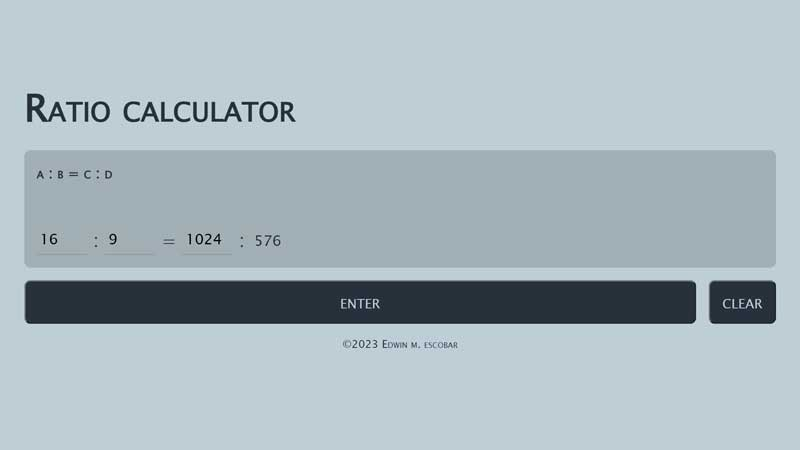
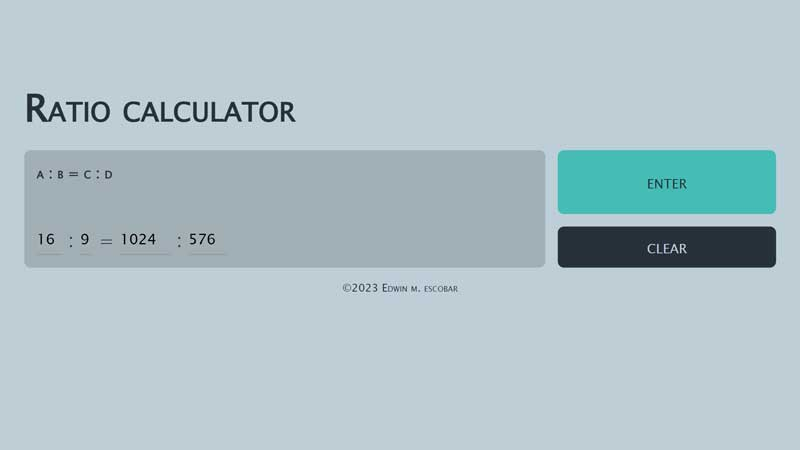
generated new report & screenshot to reflect build

Changed region(s): [[0.0312, 0.3111, 0.9688, 0.7778], [0.0312, 0.4978, 0.2812, 0.56], [0.3125, 0.5289, 0.3438, 0.56]]

diff --git a/dist/report.html b/dist/report.html
@@ -3,7 +3,7 @@
   <head>
     <meta charset="UTF-8"/>
     <meta name="viewport" content="width=device-width, initial-scale=1"/>
-    <title>ratio-calculator [19 Aug 2023 at 13:41]</title>
+    <title>ratio-calculator [19 Aug 2023 at 15:11]</title>
[1 lines of base64/hex data omitted]
 
     <script>
@@ -31,7 +31,7 @@
   <body>
     <div id="app"></div>
     <script>
-      window.chartData = [{"label":"app.bundle.js","isAsset":true,"statSize":13620,"parsedSize":28177,"gzipSize":5913,"groups":[{"label":"src","path":"./src","statSize":5273,"groups":[{"label":"css","path":"./src/css","statSize":3303,"groups":[{"id":"./node_modules/css-loader/dist/cjs.js!./src/css/style.css","label":"style.css","path":"./src/css/style.css","statSize":3303,"parsedSize":8851,"gzipSize":1594}],"parsedSize":8851,"gzipSize":1594},{"label":"js","path":"./src/js","statSize":1970,"groups":[{"label":"lib","path":"./src/js/lib","statSize":636,"groups":[{"id":"./src/js/lib/Calculator.js","label":"Calculator.js","path":"./src/js/lib/Calculator.js","statSize":636,"parsedSize":777,"gzipSize":336}],"parsedSize":777,"gzipSize":336},{"id":"./src/js/script.js","label":"script.js","path":"./src/js/script.js","statSize":1334,"parsedSize":1775,"gzipSize":845}],"parsedSize":2552,"gzipSize":1037}],"parsedSize":11403,"gzipSize":2393},{"label":"node_modules","path":"./node_modules","statSize":8347,"groups":[{"label":"css-loader/dist/runtime","path":"./node_modules/css-loader/dist/runtime","statSize":2367,"groups":[{"id":"./node_modules/css-loader/dist/runtime/api.js","label":"api.js","path":"./node_modules/css-loader/dist/runtime/api.js","statSize":2303,"parsedSize":2570,"gzipSize":827},{"id":"./node_modules/css-loader/dist/runtime/noSourceMaps.js","label":"noSourceMaps.js","path":"./node_modules/css-loader/dist/runtime/noSourceMaps.js","statSize":64,"parsedSize":202,"gzipSize":186}],"parsedSize":2772,"gzipSize":855},{"label":"style-loader/dist/runtime","path":"./node_modules/style-loader/dist/runtime","statSize":5980,"groups":[{"id":"./node_modules/style-loader/dist/runtime/injectStylesIntoStyleTag.js","label":"injectStylesIntoStyleTag.js","path":"./node_modules/style-loader/dist/runtime/injectStylesIntoStyleTag.js","statSize":2480,"parsedSize":2715,"gzipSize":888},{"id":"./node_modules/style-loader/dist/runtime/insertBySelector.js","label":"insertBySelector.js","path":"./node_modules/style-loader/dist/runtime/insertBySelector.js","statSize":1003,"parsedSize":1180,"gzipSize":586},{"id":"./node_modules/style-loader/dist/runtime/insertStyleElement.js","label":"insertStyleElement.js","path":"./node_modules/style-loader/dist/runtime/insertStyleElement.js","statSize":285,"parsedSize":438,"gzipSize":274},{"id":"./node_modules/style-loader/dist/runtime/setAttributesWithoutAttributes.js","label":"setAttributesWithoutAttributes.js","path":"./node_modules/style-loader/dist/runtime/setAttributesWithoutAttributes.js","statSize":298,"parsedSize":477,"gzipSize":292},{"id":"./node_modules/style-loader/dist/runtime/styleDomAPI.js","label":"styleDomAPI.js","path":"./node_modules/style-loader/dist/runtime/styleDomAPI.js","statSize":1534,"parsedSize":1764,"gzipSize":689},{"id":"./node_modules/style-loader/dist/runtime/styleTagTransform.js","label":"styleTagTransform.js","path":"./node_modules/style-loader/dist/runtime/styleTagTransform.js","statSize":380,"parsedSize":534,"gzipSize":309}],"parsedSize":7108,"gzipSize":1959}],"parsedSize":9880,"gzipSize":2534}],"isInitialByEntrypoint":{"app":true}}];
+      window.chartData = [{"label":"app.bundle.js","isAsset":true,"statSize":197150,"parsedSize":28702,"gzipSize":6072,"groups":[{"label":"entry modules (concatenated)","path":"./entry modules (concatenated)","statSize":13073,"parsedSize":6894,"gzipSize":1454,"concatenated":true,"groups":[{"label":"node_modules","path":"./entry modules (concatenated)/node_modules","statSize":13073,"groups":[{"label":"webpack-dev-server/client","path":"./entry modules (concatenated)/node_modules/webpack-dev-server/client","statSize":11088,"groups":[{"id":"./node_modules/webpack-dev-server/client/index.js?protocol=ws%3A&hostname=0.0.0.0&port=8080&pathname=%2Fws&logging=info&overlay=true&reconnect=10&hot=true&live-reload=true","label":"index.js?protocol=ws%3A&hostname=0.0.0.0&port=8080&pathname=%2Fws&logging=info&overlay=true&reconnect=10&hot=true&live-reload=true","path":"./entry modules (concatenated)/node_modules/webpack-dev-server/client/index.js?protocol=ws%3A&hostname=0.0.0.0&port=8080&pathname=%2Fws&logging=info&overlay=true&reconnect=10&hot=true&live-reload=true","statSize":11088,"parsedSize":5847,"gzipSize":1233,"inaccurateSizes":true}],"parsedSize":5847,"gzipSize":1233,"inaccurateSizes":true},{"label":"webpack/hot","path":"./entry modules (concatenated)/node_modules/webpack/hot","statSize":1985,"groups":[{"id":"./node_modules/webpack/hot/dev-server.js","label":"dev-server.js","path":"./entry modules (concatenated)/node_modules/webpack/hot/dev-server.js","statSize":1985,"parsedSize":1046,"gzipSize":220,"inaccurateSizes":true}],"parsedSize":1046,"gzipSize":220,"inaccurateSizes":true}],"parsedSize":6894,"gzipSize":1454,"inaccurateSizes":true}]},{"label":"node_modules","path":"./node_modules","statSize":177150,"groups":[{"label":"ansi-html-community","path":"./node_modules/ansi-html-community","statSize":4262,"groups":[{"id":"./node_modules/ansi-html-community/index.js","label":"index.js","path":"./node_modules/ansi-html-community/index.js","statSize":4262}],"parsedSize":0,"gzipSize":0},{"label":"css-loader/dist/runtime","path":"./node_modules/css-loader/dist/runtime","statSize":2367,"groups":[{"id":"./node_modules/css-loader/dist/runtime/api.js","label":"api.js","path":"./node_modules/css-loader/dist/runtime/api.js","statSize":2303,"parsedSize":2570,"gzipSize":827},{"id":"./node_modules/css-loader/dist/runtime/noSourceMaps.js","label":"noSourceMaps.js","path":"./node_modules/css-loader/dist/runtime/noSourceMaps.js","statSize":64,"parsedSize":202,"gzipSize":186}],"parsedSize":2772,"gzipSize":855},{"label":"events","path":"./node_modules/events","statSize":14890,"groups":[{"id":"./node_modules/events/events.js","label":"events.js","path":"./node_modules/events/events.js","statSize":14890}],"parsedSize":0,"gzipSize":0},{"label":"html-entities/lib","path":"./node_modules/html-entities/lib","statSize":83777,"groups":[{"id":"./node_modules/html-entities/lib/index.js","label":"index.js","path":"./node_modules/html-entities/lib/index.js","statSize":8100},{"id":"./node_modules/html-entities/lib/named-references.js","label":"named-references.js","path":"./node_modules/html-entities/lib/named-references.js","statSize":74801},{"id":"./node_modules/html-entities/lib/numeric-unicode-map.js","label":"numeric-unicode-map.js","path":"./node_modules/html-entities/lib/numeric-unicode-map.js","statSize":339},{"id":"./node_modules/html-entities/lib/surrogate-pairs.js","label":"surrogate-pairs.js","path":"./node_modules/html-entities/lib/surrogate-pairs.js","statSize":537}],"parsedSize":0,"gzipSize":0},{"label":"style-loader/dist/runtime","path":"./node_modules/style-loader/dist/runtime","statSize":5980,"groups":[{"id":"./node_modules/style-loader/dist/runtime/injectStylesIntoStyleTag.js","label":"injectStylesIntoStyleTag.js","path":"./node_modules/style-loader/dist/runtime/injectStylesIntoStyleTag.js","statSize":2480,"parsedSize":2715,"gzipSize":888},{"id":"./node_modules/style-loader/dist/runtime/insertBySelector.js","label":"insertBySelector.js","path":"./node_modules/style-loader/dist/runtime/insertBySelector.js","statSize":1003,"parsedSize":1180,"gzipSize":586},{"id":"./node_modules/style-loader/dist/runtime/insertStyleElement.js","label":"insertStyleElement.js","path":"./node_modules/style-loader/dist/runtime/insertStyleElement.js","statSize":285,"parsedSize":438,"gzipSize":274},{"id":"./node_modules/style-loader/dist/runtime/setAttributesWithoutAttributes.js","label":"setAttributesWithoutAttributes.js","path":"./node_modules/style-loader/dist/runtime/setAttributesWithoutAttributes.js","statSize":298,"parsedSize":477,"gzipSize":292},{"id":"./node_modules/style-loader/dist/runtime/styleDomAPI.js","label":"styleDomAPI.js","path":"./node_modules/style-loader/dist/runtime/styleDomAPI.js","statSize":1534,"parsedSize":1764,"gzipSize":689},{"id":"./node_modules/style-loader/dist/runtime/styleTagTransform.js","label":"styleTagTransform.js","path":"./node_modules/style-loader/dist/runtime/styleTagTransform.js","statSize":380,"parsedSize":534,"gzipSize":309}],"parsedSize":7108,"gzipSize":1959},{"label":"webpack-dev-server/client","path":"./node_modules/webpack-dev-server/client","statSize":62429,"groups":[{"label":"clients","path":"./node_modules/webpack-dev-server/client/clients","statSize":2269,"groups":[{"id":"./node_modules/webpack-dev-server/client/clients/WebSocketClient.js","label":"WebSocketClient.js","path":"./node_modules/webpack-dev-server/client/clients/WebSocketClient.js","statSize":2269}],"parsedSize":0,"gzipSize":0},{"label":"modules/logger","path":"./node_modules/webpack-dev-server/client/modules/logger","statSize":26608,"groups":[{"id":"./node_modules/webpack-dev-server/client/modules/logger/index.js","label":"index.js","path":"./node_modules/webpack-dev-server/client/modules/logger/index.js","statSize":26608}],"parsedSize":0,"gzipSize":0},{"id":"./node_modules/webpack-dev-server/client/overlay.js","label":"overlay.js","path":"./node_modules/webpack-dev-server/client/overlay.js","statSize":11346},{"label":"overlay","path":"./node_modules/webpack-dev-server/client/overlay","statSize":9268,"groups":[{"id":"./node_modules/webpack-dev-server/client/overlay/fsm.js","label":"fsm.js","path":"./node_modules/webpack-dev-server/client/overlay/fsm.js","statSize":3845},{"id":"./node_modules/webpack-dev-server/client/overlay/runtime-error.js","label":"runtime-error.js","path":"./node_modules/webpack-dev-server/client/overlay/runtime-error.js","statSize":1123},{"id":"./node_modules/webpack-dev-server/client/overlay/state-machine.js","label":"state-machine.js","path":"./node_modules/webpack-dev-server/client/overlay/state-machine.js","statSize":2785},{"id":"./node_modules/webpack-dev-server/client/overlay/styles.js","label":"styles.js","path":"./node_modules/webpack-dev-server/client/overlay/styles.js","statSize":1515}],"parsedSize":0,"gzipSize":0},{"id":"./node_modules/webpack-dev-server/client/socket.js","label":"socket.js","path":"./node_modules/webpack-dev-server/client/socket.js","statSize":2037},{"label":"utils","path":"./node_modules/webpack-dev-server/client/utils","statSize":10901,"groups":[{"id":"./node_modules/webpack-dev-server/client/utils/createSocketURL.js","label":"createSocketURL.js","path":"./node_modules/webpack-dev-server/client/utils/createSocketURL.js","statSize":4372},{"id":"./node_modules/webpack-dev-server/client/utils/getCurrentScriptSource.js","label":"getCurrentScriptSource.js","path":"./node_modules/webpack-dev-server/client/utils/getCurrentScriptSource.js","statSize":868},{"id":"./node_modules/webpack-dev-server/client/utils/log.js","label":"log.js","path":"./node_modules/webpack-dev-server/client/utils/log.js","statSize":1173},{"id":"./node_modules/webpack-dev-server/client/utils/parseURL.js","label":"parseURL.js","path":"./node_modules/webpack-dev-server/client/utils/parseURL.js","statSize":1281},{"id":"./node_modules/webpack-dev-server/client/utils/reloadApp.js","label":"reloadApp.js","path":"./node_modules/webpack-dev-server/client/utils/reloadApp.js","statSize":2082},{"id":"./node_modules/webpack-dev-server/client/utils/sendMessage.js","label":"sendMessage.js","path":"./node_modules/webpack-dev-server/client/utils/sendMessage.js","statSize":435},{"id":"./node_modules/webpack-dev-server/client/utils/stripAnsi.js","label":"stripAnsi.js","path":"./node_modules/webpack-dev-server/client/utils/stripAnsi.js","statSize":690}],"parsedSize":0,"gzipSize":0}],"parsedSize":0,"gzipSize":0},{"label":"webpack/hot","path":"./node_modules/webpack/hot","statSize":3445,"groups":[{"id":"./node_modules/webpack/hot/emitter.js","label":"emitter.js","path":"./node_modules/webpack/hot/emitter.js","statSize":75},{"id":"./node_modules/webpack/hot/log-apply-result.js","label":"log-apply-result.js","path":"./node_modules/webpack/hot/log-apply-result.js","statSize":1462},{"id":"./node_modules/webpack/hot/log.js","label":"log.js","path":"./node_modules/webpack/hot/log.js","statSize":1908}],"parsedSize":0,"gzipSize":0}],"parsedSize":9880,"gzipSize":2534},{"label":"src","path":"./src","statSize":6927,"groups":[{"label":"css","path":"./src/css","statSize":4788,"groups":[{"id":"./node_modules/css-loader/dist/cjs.js!./src/css/style.css","label":"style.css","path":"./src/css/style.css","statSize":4788,"parsedSize":9202,"gzipSize":1697}],"parsedSize":9202,"gzipSize":1697},{"label":"js","path":"./src/js","statSize":2139,"groups":[{"label":"lib","path":"./src/js/lib","statSize":636,"groups":[{"id":"./src/js/lib/Calculator.js","label":"Calculator.js","path":"./src/js/lib/Calculator.js","statSize":636,"parsedSize":777,"gzipSize":336}],"parsedSize":777,"gzipSize":336},{"id":"./src/js/script.js","label":"script.js","path":"./src/js/script.js","statSize":1503,"parsedSize":1949,"gzipSize":900}],"parsedSize":2726,"gzipSize":1091}],"parsedSize":11928,"gzipSize":2557}],"isInitialByEntrypoint":{"app":true}}];
       window.entrypoints = ["app"];
       window.defaultSizes = "parsed";
     </script>

diff --git a/webpack.config.js b/webpack.config.js
@@ -24,7 +24,7 @@ module.exports = {
     plugins: [
       new BundleAnalyzerPlugin({
         // "static" generates `report.html`. "disable" stops report generation
-        analyzerMode: "disable",
+        analyzerMode: "static",
       }),
       new WebpackPwaManifest({
         // `manifest.json` object key-values
